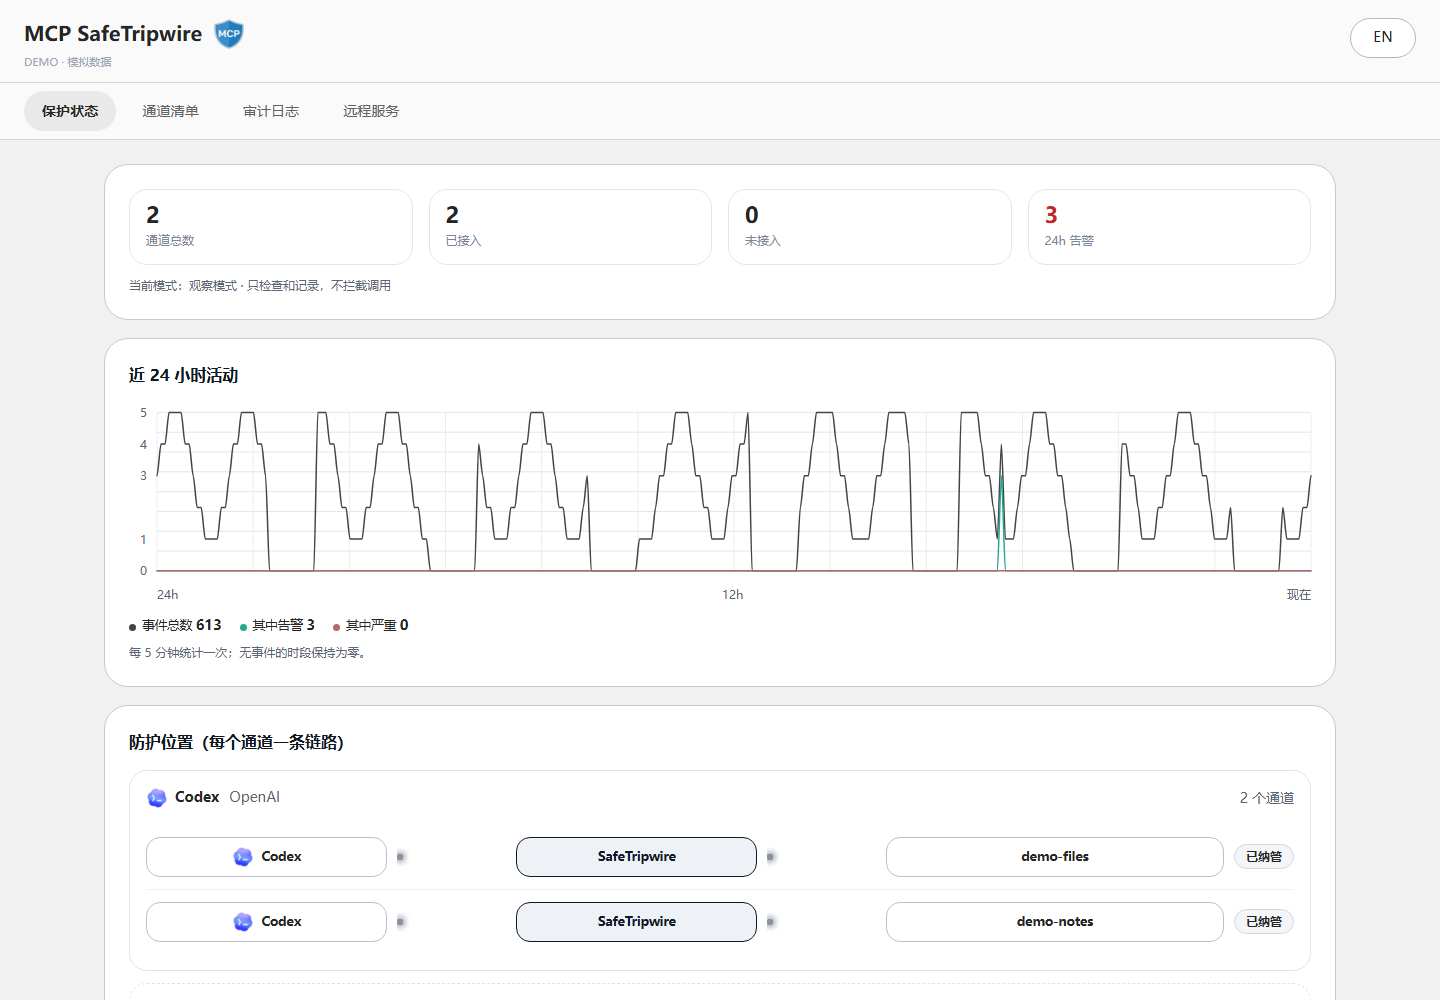
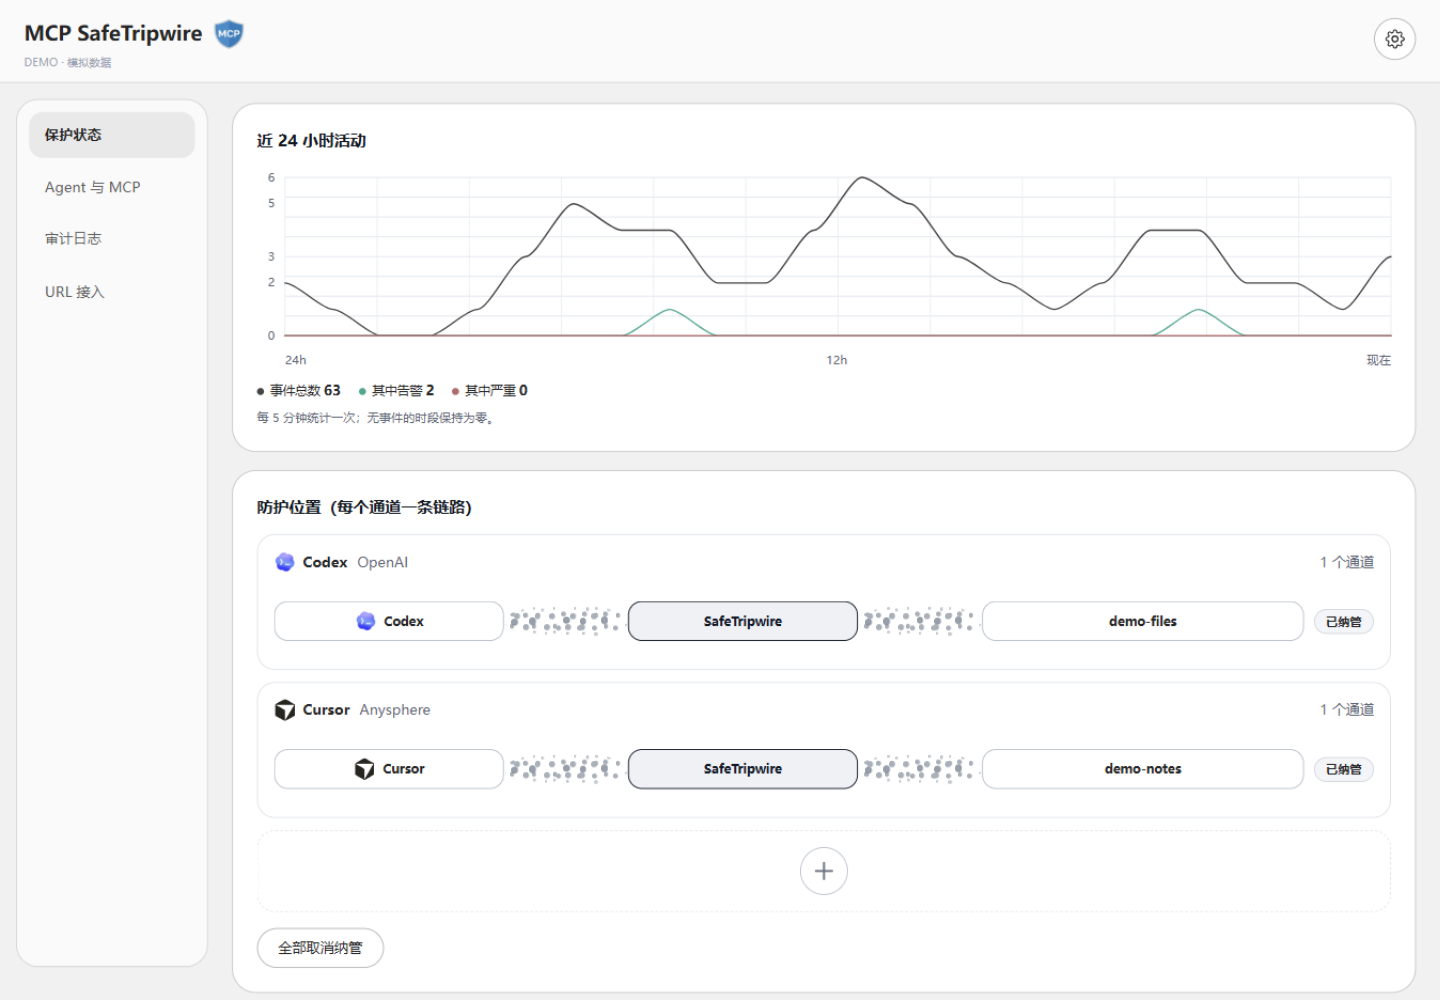
Refresh README and add current application screenshots

diff --git a/README.md b/README.md
@@ -1,111 +1,94 @@
 <p align="center">
-  <img src="https://raw.githubusercontent.com/luke0485/mcp-safetripwire/main/assets/logo-256.png" width="128" height="128" alt="MCP SafeTripwire Logo" />
+  <img src="https://raw.githubusercontent.com/luke0485/mcp-safetripwire/main/assets/logo-256.png" width="120" height="120" alt="MCP SafeTripwire" />
 </p>
 
 <div align="center">
 
 # MCP SafeTripwire · MCP 安全绊线
 
-**MCP 安全绊线 · 作者 [luke0485](https://github.com/luke0485)**
+**Windows 桌面应用 · 在 Agent 与 MCP 之间加一道可检查的绊线**
 
-[官方仓库 / Official repository](https://github.com/luke0485/mcp-safetripwire)
+[官方仓库](https://github.com/luke0485/mcp-safetripwire) · [下载安装程序](https://github.com/luke0485/mcp-safetripwire/releases/latest/download/MCP-SafeTripwire-Setup.exe) · [便携版 ZIP](https://github.com/luke0485/mcp-safetripwire/releases/latest/download/MCP-SafeTripwire-windows-x64.zip)
 
-**让 Agent 继续工作，让 MCP 多一道检查。**
-
-An inspectable security broker between your Agent and its MCP tools.
-
-![Windows](https://img.shields.io/badge/Windows-x64-252525)
+![Windows](https://img.shields.io/badge/Windows-10%20%2F%2011%20x64-252525)
 ![License](https://img.shields.io/badge/License-MIT-555555)
-[![Windows checks](https://github.com/luke0485/mcp-safetripwire/actions/workflows/ci.yml/badge.svg)](https://github.com/luke0485/mcp-safetripwire/actions)
-![No LLM](https://img.shields.io/badge/Detection-No_LLM_required-555555)
+![No LLM](https://img.shields.io/badge/Detection-No_LLM-555555)
 
-[快速上手](#快速上手) · [保护什么](#保护什么) · [实测结果](#实测结果) · [开发与测试](#开发与测试) · [路线图](#路线图)
-
-[**下载 Windows 安装程序**](https://github.com/luke0485/mcp-safetripwire/releases/latest/download/MCP-SafeTripwire-Setup.exe) · [便携版 ZIP](https://github.com/luke0485/mcp-safetripwire/releases/latest/download/MCP-SafeTripwire-windows-x64.zip) · [查看构建状态](https://github.com/luke0485/mcp-safetripwire/actions)
 </div>
 
-![Agent → SafeTripwire → MCP](assets/readme/flow.svg)
+![保护状态](assets/readme/dashboard.png)
 
-Agent 能调用工具，也可能遇到被替换的工具清单、可疑的工具描述或不该出现的调用参数。SafeTripwire 在 **已接入的 MCP 通道**中加入检查与审计，让你先看清变化，再决定是否阻断。
+*保护状态：24 小时活动、通道链路和当前模式。*
 
-支持 **Windows**，Mac 和 Linux 版本将在后续推进。
+![Agent 与 MCP](assets/readme/protection.png)
 
-由 **luke0485** 独立维护的开源 MCP 安全工具，包含工具投毒检查、工具清单完整性检查、行为基线、黑名单、主动阻断和审计日志。
+*Agent 与 MCP：内置运行单独标记；MCP / 插件统一盘点；纳管状态一目了然。*
 
-Open-source Model Context Protocol (MCP) security for Windows: tool poisoning checks, manifest integrity, behavior baselines, blacklists, request blocking, and audit logging. Maintained by **luke0485**, GitHub account **luke0485**.
+## 它是什么
 
-## 看得见的保护
+SafeTripwire 是一个 Windows 本地安全代理。它把 Agent 的 MCP 连接接到自己的检查器，记录工具清单、调用参数和审计事件，并在保护模式下拒绝命中规则的请求。
 
-![保护状态界面](assets/readme/dashboard.png)
+它不依赖额外 LLM，不需要云端账号；只有**经过 SafeTripwire 的通道**才会被检查和拦截。
 
-*界面演示采用模拟数据，不代表本机流量或实际拦截统计。每个 MCP 一条通道；同一 Agent 的多个 MCP 会显示在同一组中。*
+## 主要能力
 
-![进阶防护界面](assets/readme/protection.png)
-
-*先观察、再确认可信行为；普通用户可从默认选项开始，自定义工具和域名黑名单按需展开。*
-
-## 保护什么
-
-| 能力 | 你能得到什么 |
+| 能力 | 说明 |
 | --- | --- |
-| 工具清单指纹 | 核对并批准工具清单；指纹覆盖名称、标题、描述、输入/输出 schema、annotations 与 `_meta`，后续变化会被发现，在保护模式下拒绝相关调用 |
-| 静态规则检查 | 检查工具名称、标题、描述、schema、annotations 与 `_meta`，以及调用载荷中的已知可疑模式，不依赖额外 LLM API |
-| 工具 / 域名黑名单 | 检查工具名和参数里的域名引用，匹配域名时包含其子域名 |
-| 行为基线 | 记录放行调用；每个工具至少 20 次样本后，人工确认冻结正常行为，可提醒或阻断新地址引用及可选的新字段 |
-| 审计与状态 | 中英文简要说明、活动趋势、通道状态、哈希链一致性检查；轮转时保留上一代链头 |
-| 本机与 HTTP MCP | stdio 与支持的 HTTP / SSE 路由共用检查器；每个路由可单独指定阻断姿态 |
-| 诱饵与金丝雀 | 保护模式下加入诱饵工具；stdio 通道获得每个安装随机生成的 `TRIPWIRE_CANARY` 环境值，外发时会被拦截 |
-| 本机旁路观察 | 记录裸 TCP 通道；`--protect` 必须提供 `--allow` 名单，并且只允许回环监听 |
-| 原生桌面面板 | WinForms + WebView2 原生窗口，不是浏览器标签页；无地址栏/标签栏，关闭窗口后托盘继续在后台运行 |
+| 通道接入 | 本地 stdio 一键纳管；检测到的 HTTP MCP 自动生成 `127.0.0.1` 中转并改写配置，原配置先备份 |
+| 工具清单指纹 | 覆盖名称、标题、描述、输入/输出 schema、annotations 与 `_meta`；变化可触发提醒或拦截 |
+| 静态检查 | 检查工具描述、schema、annotations、`_meta` 和调用载荷中的可疑模式 |
+| 黑名单 | 工具名、参数里的域名引用；域名匹配包含子域名 |
+| 行为基线 | 正常调用积累至少 20 次后人工冻结；之后的新地址/新字段可按设置提醒或拦截 |
+| 两种模式 | **观察模式**只记录和提醒；**保护模式**对已纳管通道执行拦截 |
+| 审计 | JSONL 哈希链、轮转保留上一代链头、24 小时活动视图 |
+| 桌面体验 | WinForms + WebView2 原生窗口；无地址栏；关闭面板后托盘后台运行 |
+| 设置 | 右上角齿轮；语言、浅色/深色/跟随系统；设置页左上角返回 |
 
-Agent 目录包含 **58 个条目**，其中 **30 个配置适配器**支持默认位置读取；可自动发现或手动接入。详见 [Agent 覆盖说明](docs/AGENT-COVERAGE.md)。
+Agent 目录包含 **58 个条目**（含 DeepSeek Harness 等厂商条目）和 **30 个配置适配器**；自动发现、手动指定配置和 URL 接入是三种不同层级。详见 [Agent 覆盖说明](docs/AGENT-COVERAGE.md)。
 
+## 安装与接入
 
-## 最新功能完善
+1. 从 [Releases](https://github.com/luke0485/mcp-safetripwire/releases/latest) 下载 `MCP-SafeTripwire-Setup.exe`，双击安装。无需管理员权限，无需安装 Node.js。
+2. 从桌面快捷方式打开应用。托盘会保持后台运行。
+3. 打开 **Agent 与 MCP**，查看检测到的 Agent 和配置；选择要保护的通道。
+4. 本地 stdio 通道点击“纳入防护”；检测到的 HTTP 通道会自动生成中转并改写地址。重启对应 Agent 使配置生效。
+5. 先使用 **观察模式** 确认真实调用，再切换到 **保护模式**。
 
-- **每次连接都先核验**：保护模式下，新连接先核验已批准的工具清单，再放行清单内的工具。
-- **清单变化会真正告警**：疑似 rug-pull、清单未核验和审计链异常保持 `critical`，会进入托盘通知和 24 小时告警计数。
-- **更完整的指纹**：名称、标题、描述、输入/输出 schema、annotations 与 `_meta` 都进入 SHA-256；对象键序不影响结果，避免等价 schema 的误报。
-- **审计链更结实**：单条记录超过 64 KiB、进程重启或日志轮转都不会再切断链；轮转后的第一条记录链接到上一代链头。
-- **阻断姿态不会被静默覆盖**：HTTP 路由显式设置的 `posture` 优先于全局模式；`serve` / `bridge` 绑定失败会非零退出，不再显示“已启动”却没监听。
+模式切换会弹应用内确认框；确认后只更新当前页，不重载页面、不跳回顶部。
 
-- **界面与入口**：左侧为 **Agent 与 MCP / 审计日志 / URL 接入**，右上角齿轮进入设置（语言、浅色/深色/跟随系统）；观察/保护模式切换前会弹应用内确认框，确认后只更新当前页，不闪屏、不跳回顶部。内置 Computer Use 会单独标记为“内置”，不建议接管。
-- **固定本机地址**：控制台和本地 MCP 中转固定使用 `127.0.0.1`，不会在 `localhost`、`::1` 和 IPv4 之间切换，避免客户端指向不同回环地址。
-- **原生桌面面板**：新增 WinForms + WebView2 窗口（`dist\MCP-SafeTripwire-Panel.exe`），不再用 Edge 的应用窗口打开控制台；有标题栏、图标和任务栏入口，没有地址栏/标签栏。WebView2 Runtime 随 Edge 安装在 Windows 10/11 上，通常无需额外安装。
-- **登录链路更短**：浏览器只拿到一次性、5 分钟有效的登录码，长期 token 不再进入浏览器命令行或历史记录。
-- **桥接更保守**：`--protect` 必须先做同步进程校验，未识别进程直接拒绝；默认只听回环，原始代码默认不写入审计（需要时用 `--log-code`）。
-- **金丝雀真的会放置**：stdio 子进程通过 `TRIPWIRE_CANARY` 获得每个安装随机的测试秘密，只有把它带进工具参数才会触发拦截。
-- **资源上限**：工具清单超过 1000 个视为异常，交叉引用扫描有上限；调用参数键和目的地写入审计时也会截断。
+## URL 接入
 
-### Recent capability improvements
+`URL 接入` 只用于**无法自动识别的 MCP**。已检测到的 HTTP MCP 会在页面直接列出一键接入，不需要手填地址。
 
-Each new connection verifies its approved tool manifest before calls are allowed in blocking mode. Rug-pull, unverified manifests and audit-chain breaks stay critical and reach the tray. The pinned identity now covers title, description, input/output schemas, annotations and `_meta`, with recursively sorted keys. Audit records larger than 64 KiB and log rotation no longer break the chain. Explicit HTTP route postures win over the global mode, and bind failures exit nonzero. The console opens in a native WinForms + WebView2 panel instead of an Edge app window, and the browser receives a single-use five-minute login code instead of the long-lived token. The TCP bridge requires an allowlist for `--protect`, listens on loopback only, and does not store raw code unless `--log-code` is set. stdio servers receive a per-install `TRIPWIRE_CANARY`. Manifests above 1000 tools are rejected.
+手动添加是分步表单：名称 → MCP 地址 → 创建中转 → 复制本机地址。它不会赋予不支持 MCP 的产品额外能力。
 
-## 快速上手
+## 安全边界
 
-1. 在本仓库 **Releases** 下载 `MCP-SafeTripwire-Setup.exe`，双击安装（不需要管理员权限）。安装程序会创建桌面快捷方式，并登记“应用和功能”里的卸载入口；也可以下载 `MCP-SafeTripwire-windows-x64.zip` 作为便携版。
-2. 从桌面快捷方式打开 **MCP SafeTripwire**。无需另外安装 Node.js；面板使用系统已有的 WebView2 Runtime（Windows 10/11 随 Edge 提供）。
-3. 点击添加，选择 Agent，检查识别到的 MCP 通道，再接入需要保护的通道。自动改写配置前会保留备份。
-4. 重启对应 Agent，让配置生效；核对工具清单并批准可信通道。
-5. 先使用 **观察模式**了解正常调用，随后按需要启用 **保护模式**。
+- 看到 Agent 图标不等于已受保护；只有“已纳管”的通道经过 SafeTripwire。
+- 本机中转固定使用 `127.0.0.1`，不会在 `localhost`、`::1` 和 IPv4 之间切换。
+- 云端 Agent、远程电脑上的 Agent、没有可读本地配置且没有 MCP URL 的产品，本机无法自动保护。
+- 内置运行（例如 Codex 的 Computer Use）会标记为“内置”，不建议接管。
+- 观察模式不拦截；保护模式也只覆盖经过 SafeTripwire 的通道，不是全局防火墙。
+- 审计记录的是检查所需的信息，不应被当作完整取证镜像。
 
-**注意：看到 Agent 图标不代表已经受到保护。** 只有经过 SafeTripwire 的 MCP 请求才会检查；观察模式通常只记录、不拒绝请求，显式拒绝策略另有优先级。行为基线应从可信操作中学习，不能盲目批准未知调用。开启保护模式后，后台发现新通道时会自动接入并先备份配置（不逐通道弹窗确认）；不希望自动改写时，请先保持观察模式并手动接入。
+## 验证
 
-配置路径不在默认位置时，可手动指定配置文件。无法自动读配置的产品，只有在其支持自定义 MCP 时才能手动接入；“URL 接入”页面只用于无法自动识别的 MCP；已检测到的 HTTP MCP 会在该页面直接显示一键接入，不需要手填地址。不会自动赋予不支持 MCP 的产品相关能力。
+- 自动化测试：**275 项全部通过**
+- 生产依赖审计：`npm audit --omit=dev` → **0 个已知漏洞**
+- 构建：主程序、WebView2 面板、便携 ZIP、安装程序
+- 脚本检查：JS 语法 + PowerShell 解析通过
 
-Windows 程序未签名，不需要购买商业签名才能使用。若系统提示“未知发布者”，核对官方来源后可选择“更多信息 → 仍要运行”（系统允许时）。下载页提供 `SHA256SUMS.txt` 校验文件。
+离线实验室包用于专用测试机，不在日常办公机运行；它不是对真实环境的攻击测试。
 
-## 实测结果
+## 下载文件
 
-**已通过 Windows 10 + WorkBuddy 接入与调用试验，检测和审计正常运行。** 20 项离线模拟安全检查全部通过，覆盖黑名单、行为基线、工具投毒、信任叛变、清单篡改和 HTTP 请求校验。
+- `MCP-SafeTripwire-Setup.exe`：推荐，安装到当前用户目录，创建桌面快捷方式和卸载入口
+- `MCP-SafeTripwire-windows-x64.zip`：便携版，解压后运行 `Start MCP SafeTripwire.cmd`
+- `SHA256SUMS.txt`：校验摘要
 
-**接入通道 → 重启 Agent → 批准可信清单 → 开启保护。** 观察模式记录风险，保护模式拒绝命中的调用。
+程序未签名；若 Windows 提示未知发布者，请先核对下载来源和 SHA-256。
 
-详细说明见 [安全政策](SECURITY.md) 和 [检测说明](docs/DETECTION-LIMITS.md)。
-
-## 开发与测试
-
-建议使用 Node.js 24 和 Windows PowerShell。
+## 开发
 
 ```powershell
 npm ci
@@ -114,39 +97,20 @@ npm run doctor
 node src/cli.js console
 ```
 
-自动化测试覆盖规则、黑名单、行为基线、配置适配、管理接口、审计及 stdio / HTTP 传输，使用临时目录和模拟服务。
-
-本次生产依赖检查 `npm audit --omit=dev` 为 0 个已知漏洞；仅表示检查时依赖数据库的结果。
-
-构建可下载的 Windows 包：
-
 ```powershell
 ./tools/build.ps1 -SkipInstall
 ./tools/package-release.ps1
 ./tools/build-installer.ps1
 ```
 
-Windows 发布工作流执行测试、构建，并生成校验摘要和构建证明。发布流程见 [发布说明](docs/RELEASING.md)。
-
-## 路线图
-
-- 持续进行 **安全审计、回归测试和功能补充**。
-- 后续推进 **Mac 和 Linux 版本**。
-
-欢迎提交使用反馈和功能建议；漏洞反馈请遵循 [SECURITY.md](SECURITY.md)。
+构建产物在 `dist/`，发布流程见 [docs/RELEASING.md](docs/RELEASING.md)。
 
 ## English
 
-MCP SafeTripwire is a Windows-first, LLM-free security broker for MCP traffic explicitly routed through it. It combines reviewed manifest fingerprints, static rules, tool/domain blacklists, manually frozen behaviour baselines and local audit logging. Observe first, review trusted channels, then enable blocking when appropriate.
+MCP SafeTripwire is a Windows-first, LLM-free security broker for MCP traffic explicitly routed through it: manifest fingerprints, static checks, tool/domain blacklists, frozen behaviour baselines, hash-chained audit logs and two operating modes (Observe / Protect). It ships as a local installer with a native WebView2 panel and tray process. It does not protect traffic that never passes through it, and it is not a global firewall.
 
-Successfully tested with WorkBuddy on Windows 10 for MCP integration, tool calls, detection and audit logging. All 20 offline simulated security checks passed. Continuous security audits, regression testing and feature additions will continue, with Mac and Linux versions planned.
+## 作者与许可证
 
-## 作者与协作 / Credits
+作者：**luke0485** · [GitHub](https://github.com/luke0485)
 
-**作者 / Author：luke0485**
-
-**AI 协作模型 / AI collaborators：DeepSeek V4.1 Flash、GPT6.1sol**
-
-## 许可证
-
-项目代码采用 [MIT License](LICENSE)。第三方 Agent 名称、商标和图标属于各自权利人，不因本项目的 MIT 许可证转授其商标权；图标来源见 [assets/README.md](assets/README.md)。
+项目代码采用 [MIT License](LICENSE)。第三方 Agent 名称、商标和图标属于各自权利人；图标来源见 [assets/README.md](assets/README.md)。

diff --git a/docs/WINDOWS-DOWNLOAD.md b/docs/WINDOWS-DOWNLOAD.md
@@ -4,7 +4,7 @@
 
 也可以下载 **MCP-SafeTripwire-windows-x64.zip** 作为便携版：完整解压，双击 **Start MCP SafeTripwire.cmd**。两种方式都包含程序、托盘和原生 WebView2 面板，无需安装 Node.js 或自行编译。面板使用 Windows 10/11 随 Edge 提供的 WebView2 Runtime；如果系统提示缺少 WebView2，安装 Microsoft Edge WebView2 Runtime 即可。
 
-接入 MCP 后重启 Agent，批准可信工具清单，再开启阻断模式。关闭面板仍保持后台运行，从托盘退出才结束服务。
+接入 MCP 后重启 Agent，批准可信工具清单，再开启保护模式；自动识别不了的 MCP 才需要在“URL 接入”里手动接入。关闭面板仍保持后台运行，从托盘退出才结束服务。
 
 程序未签名。核对官方来源后，如 Windows 提示未知发布者，可在系统允许时选择“更多信息 → 仍要运行”。SHA256SUMS.txt 提供文件校验摘要。
 
